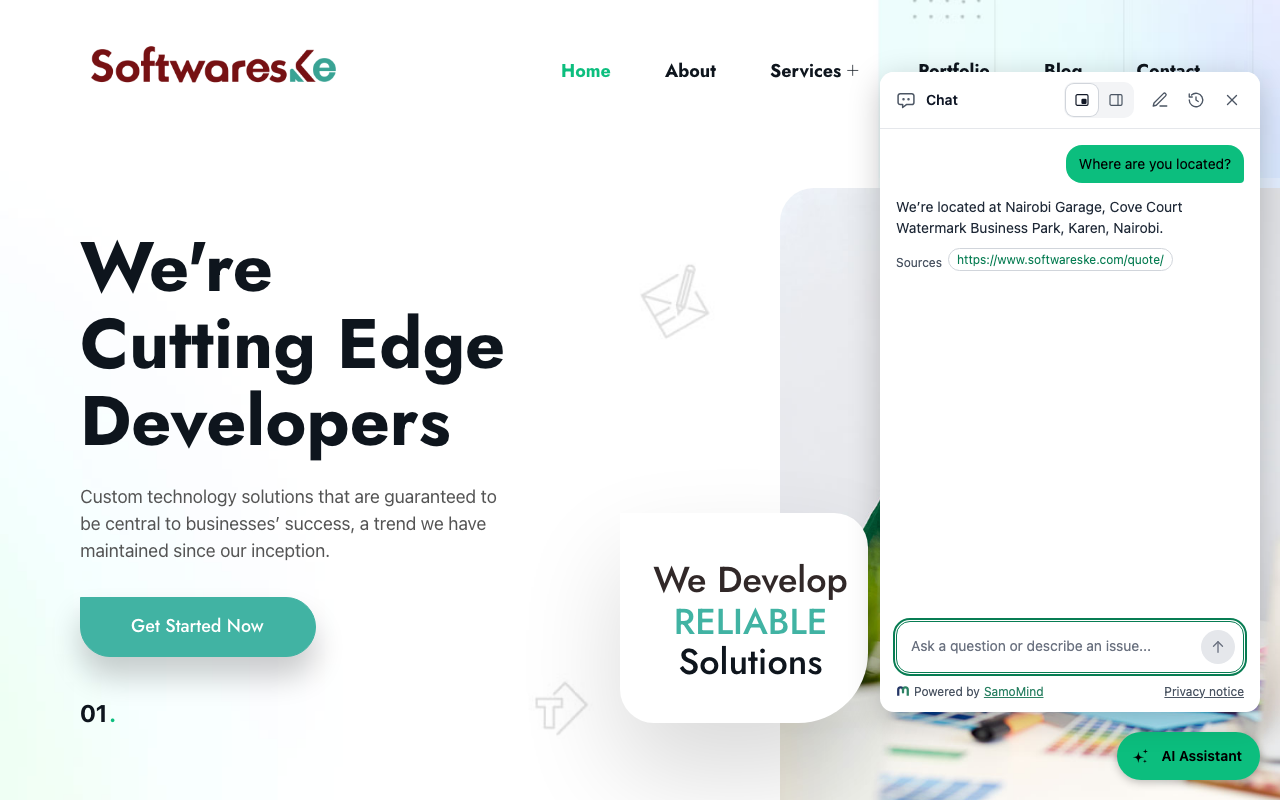
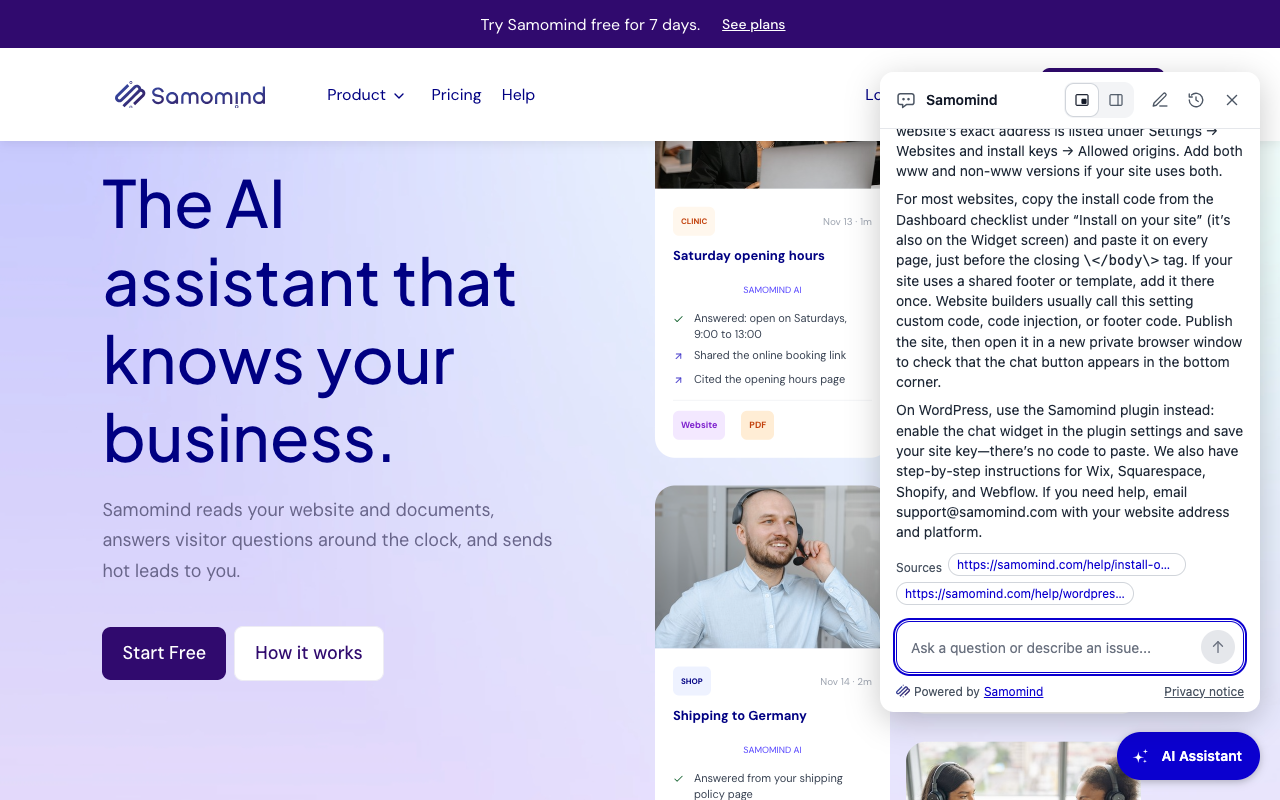
Retake listing screenshots 3 to 5 from samomind.com

diff --git a/.wordpress-org/README.md b/.wordpress-org/README.md
@@ -10,9 +10,9 @@ ones WordPress.org requires.
 | `banner-772x250.png`, `banner-1544x500.png` | page banner: deep purple #300A6E background, the white lockup (`samomind-mono-white.svg`) and the line "Answers your visitors from your own site" | 772 x 250 and 1544 x 500 px |
 | `screenshot-1.png` | Samomind > Settings with the chat widget switched on (demo site, fake key) | 1280 x 1400 |
 | `screenshot-2.png` | the content types list and the sync status (demo site, fake data) | 1120 x 800 |
-| `screenshot-3.png` | the chat widget's welcome screen on https://www.softwareske.com | 1280 x 800 |
-| `screenshot-4.png` | one answer with its source link, same site | 1280 x 800 |
-| `screenshot-5.png` | the widget on a phone-sized screen (390 x 844 at 2x) | 780 x 1688 |
+| `screenshot-3.png` | the chat widget's welcome screen on https://samomind.com (Samomind's own site) | 1280 x 800 |
+| `screenshot-4.png` | one answer with its source links, same site (the question "How do I add it to my website?") | 1280 x 800 |
+| `screenshot-5.png` | the widget on a phone-sized screen (390 x 844 at 2x), same site | 780 x 1688 |
 
 A screenshot's number matches its line under `== Screenshots ==` in
 readme.txt. The logo files are Samomind's own artwork, taken from the Samomind logo pack, rasterised as they are and never redrawn; the wordmark is not retyped.
